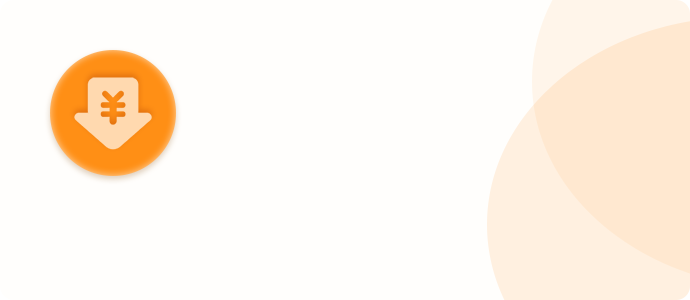
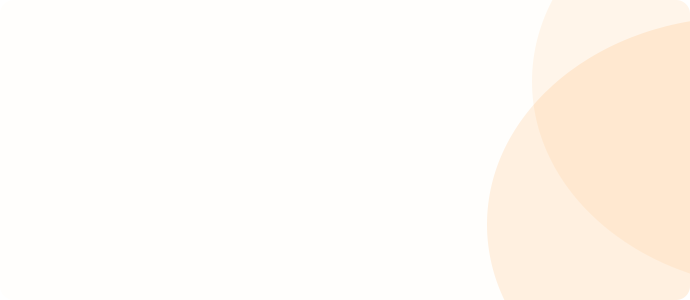
首页添加商户菜单

Changed region(s): [[0.0609, 0.15, 0.2739, 0.6]]

diff --git a/lib/src/pages/home/home_main_page.dart b/lib/src/pages/home/home_main_page.dart
@@ -1,6 +1,7 @@
 import 'package:flutter/cupertino.dart';
 import 'package:flutter/material.dart';
 import 'package:flutter_car_live/src/subpages/checkcard/check_card.dart';
+import 'package:flutter_car_live/src/subpages/order/order.dart';
 import 'package:flutter_car_live/src/subpages/scrap/scrap.dart';
 import 'package:flutter_car_live/utils/navigator_utils.dart';
 
@@ -27,6 +28,8 @@ class _MainPage extends State<MainPage> {
           buildLeadTitle(),
           buildCheckCard(),
           buildCardOp(),
+          buildAcceptMoney(),
+          buildOrderCard()
         ],
       ),
     );
@@ -156,6 +159,89 @@ class _MainPage extends State<MainPage> {
             ),
           ),
           child: Text(label ?? '', style: TextStyle(fontSize: 16)),
+        ),
+      ),
+    );
+  }
+
+  // 发起收款区域
+  buildAcceptMoney() {
+    return GestureDetector(
+      onTap: () {
+        NavigatorUtils.pushPageByFade(
+          context: context,
+          targPage: CheckCard(pageTitle: '发起收款', pageFlag: 'money'),
+        );
+      },
+      child: Container(
+        height: 150,
+        alignment: Alignment.topLeft,
+        margin: EdgeInsets.only(top: 25, left: 12, right: 12),
+        padding: EdgeInsets.only(left: 30, top: 25),
+        decoration: BoxDecoration(
+          borderRadius: BorderRadius.circular(4),
+          boxShadow: [
+            BoxShadow(
+              color: Colors.black12,
+              blurRadius: 10,
+              spreadRadius: 1.0,
+            )
+          ],
+          image: DecorationImage(
+            fit: BoxFit.cover,
+            image: AssetImage('assets/images/owner/pay-bg.png'),
+          ),
+        ),
+        child: Row(
+          children: [
+            Image.asset(
+              'assets/images/owner/pay-icon.png',
+              width: 60,
+            ),
+            SizedBox(width: 15),
+            Text('发起收款', style: TextStyle(fontSize: 16))
+          ],
+        ),
+      ),
+    );
+  }
+
+  // 订单管理区域
+  Widget buildOrderCard() {
+    return GestureDetector(
+      onTap: () {
+        NavigatorUtils.pushPageByFade(
+          context: context,
+          targPage: Order(),
+        );
+      },
+      child: Container(
+        height: 100,
+        margin: EdgeInsets.only(top: 20, left: 12, right: 12),
+        padding: EdgeInsets.symmetric(horizontal: 30),
+        decoration: BoxDecoration(
+          borderRadius: BorderRadius.circular(4),
+          boxShadow: [
+            BoxShadow(
+              color: Colors.black12,
+              blurRadius: 10,
+              spreadRadius: 1.0,
+            )
+          ],
+          image: DecorationImage(
+            fit: BoxFit.cover,
+            image: AssetImage('assets/images/owner/order-bg.png'),
+          ),
+        ),
+        child: Row(
+          children: [
+            Image.asset(
+              'assets/images/owner/order-icon.png',
+              width: 60,
+            ),
+            SizedBox(width: 15),
+            Text('订单管理', style: TextStyle(fontSize: 16))
+          ],
         ),
       ),
     );

diff --git a/lib/src/subpages/order/order.dart b/lib/src/subpages/order/order.dart
@@ -1,0 +1,24 @@
+import 'package:flutter/material.dart';
+import 'package:flutter/cupertino.dart';
+
+/// @Author: Tiancong
+/// @Date: 2021-12-02 15:56:14
+/// @Description: 订单管理页面
+
+class Order extends StatefulWidget {
+  const Order({Key? key}) : super(key: key);
+  @override
+  _OrderState createState() => _OrderState();
+}
+
+class _OrderState extends State<Order> {
+  @override
+  Widget build(BuildContext context) {
+    return Scaffold(
+      appBar: AppBar(
+        title: Text('订单管理'),
+        elevation: 0,
+      ),
+    );
+  }
+}
